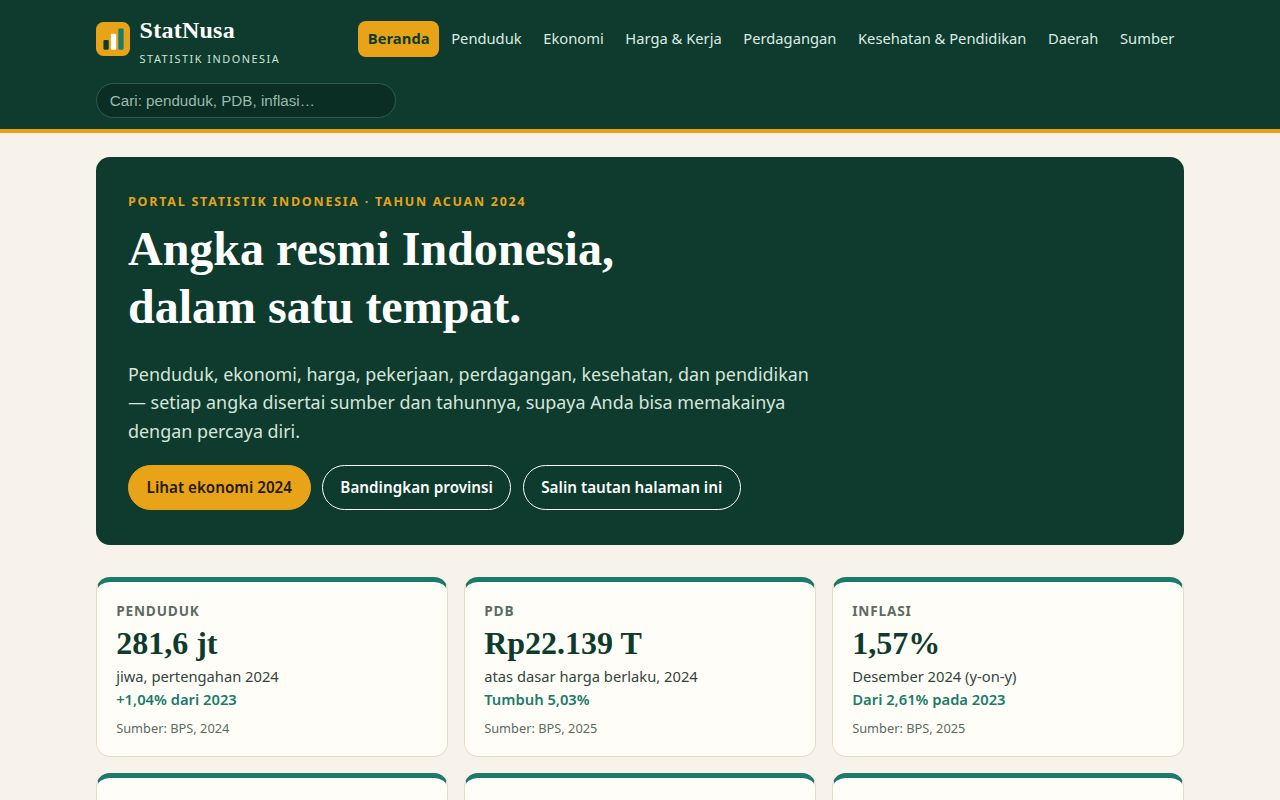
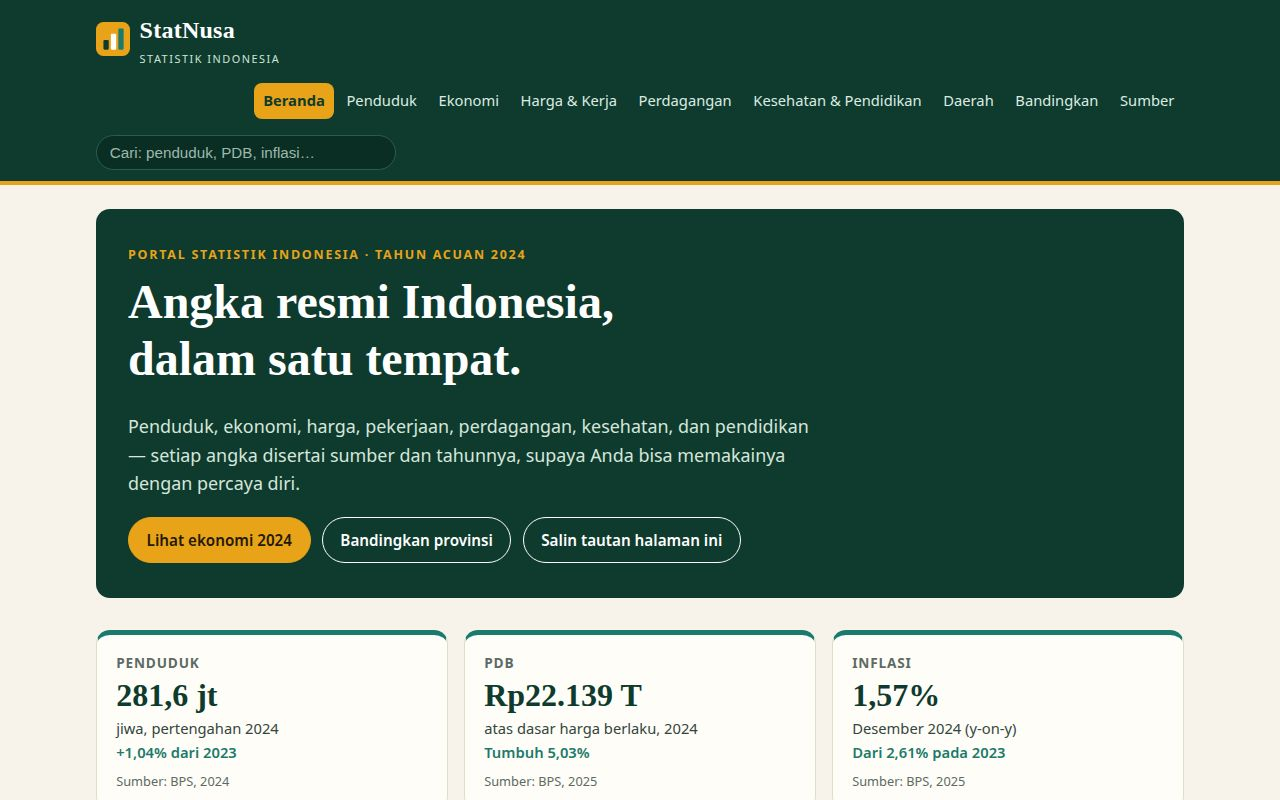
GAHAR: +halaman Bandingkan provinsi, +kalkulator daya beli IHK, format angka id-ID di semua bagan

Changed region(s): [[0.0, 0.0, 1.0, 1.0]]

diff --git a/app/views.js b/app/views.js
@@ -5,10 +5,15 @@
 import { barChart, lineChart, donutChart, hbarChart, legend } from "./charts.js";
 import {
   HEADLINE, POPULATION_YEAR, AGE_GROUPS, ISLAND_SHARE, PROVINCES,
-  GDP_YEAR, GDP_SECTORS, INFLATION_YEAR, TPT_YEAR, POVERTY_YEAR,
+  GDP_YEAR, GDP_SECTORS, INFLATION_YEAR, CPI_SERIES, TPT_YEAR, POVERTY_YEAR,
   TRADE_YEAR, EXPORT_DESTINATIONS, TOP_EXPORTS, HDI_YEAR, FACTS,
   EDUCATION, SOURCES, UPDATES,
 } from "./data.js";
+
+// Format angka Indonesia: 281,6 — bukan 281.6.
+function idNum(v, decimals = 1) {
+  return v.toLocaleString("id-ID", { minimumFractionDigits: decimals, maximumFractionDigits: decimals });
+}
 
 function src(text) {
   return `<p class="source">Sumber: ${text}</p>`;
@@ -77,7 +82,7 @@ export function renderHome(state) {
   <section>
     ${sectionHead("Penduduk terus bertambah, perlahan", "Pertumbuhan penduduk melambat dari 1,3% menjadi sekitar 1,0% per tahun, tetapi jumlahnya tetap naik hampir 3 juta jiwa setiap tahun.")}
     <div class="chart-card">
-      ${barChart(POPULATION_YEAR.map((p) => ({ label: String(p.year), value: p.value })), { format: (v) => `${v} jt` })}
+      ${barChart(POPULATION_YEAR.map((p) => ({ label: String(p.year), value: p.value })), { format: (v) => `${idNum(v)} jt` })}
       ${src("BPS, 2024 — jumlah penduduk pertengahan tahun (juta jiwa)")}
     </div>
   </section>
@@ -96,8 +101,8 @@ export function renderHome(state) {
 export function renderPopulation(state) {
   const kind = state.popKind || "bar";
   const chart = kind === "line"
-    ? lineChart(POPULATION_YEAR.map((p) => ({ label: String(p.year), value: p.value })), { format: (v) => `${v} jt` })
-    : barChart(POPULATION_YEAR.map((p) => ({ label: String(p.year), value: p.value })), { format: (v) => `${v} jt` });
+    ? lineChart(POPULATION_YEAR.map((p) => ({ label: String(p.year), value: p.value })), { format: (v) => `${idNum(v)} jt` })
+    : barChart(POPULATION_YEAR.map((p) => ({ label: String(p.year), value: p.value })), { format: (v) => `${idNum(v)} jt` });
   return `
   <section class="page-head"><p class="eyebrow">Penduduk</p><h1>281,6 juta jiwa, dan terus bertambah</h1>
   <p class="lede">Indonesia adalah negara berpenduduk terbesar keempat di dunia. Pertumbuhannya melambat, tetapi setiap tahun bertambah sekitar 3 juta jiwa — setara satu kota besar baru.</p></section>
@@ -109,7 +114,7 @@ export function renderPopulation(state) {
     ${sectionHead("Siapa penduduk Indonesia?", "Hampir tujuh dari sepuluh penduduk berada pada usia produktif — peluang besar, sekaligus pekerjaan rumah untuk lapangan kerja.")}
     <div class="duo">
       <div class="chart-card">${donutChart(AGE_GROUPS.map((g) => ({ label: g.group, value: g.share })), { centerTop: "68,9%", centerBottom: "usia produktif" })}${legend(AGE_GROUPS.map((g) => ({ label: `${g.group} (${g.note})`, value: g.share })))}</div>
-      <div class="chart-card"><h3>Sebaran menurut pulau</h3>${hbarChart(ISLAND_SHARE.map((s) => ({ label: s.island, value: s.share })), { format: (v) => `${v}%`, labelWidth: 170 })}${src("BPS, 2024 — persen penduduk")}</div>
+      <div class="chart-card"><h3>Sebaran menurut pulau</h3>${hbarChart(ISLAND_SHARE.map((s) => ({ label: s.island, value: s.share })), { format: (v) => `${idNum(v)}%`, labelWidth: 170 })}${src("BPS, 2024 — persen penduduk")}</div>
     </div>
   </section>
   <section>
@@ -122,7 +127,7 @@ export function renderPopulation(state) {
 export function provinceRows(list) {
   return list.map((p) => {
     const density = Math.round((p.pop * 1000000) / p.area);
-    return `<tr><td>${p.name}</td><td>${p.island}</td><td class="num">${p.pop.toFixed(2)}</td><td class="num">${density.toLocaleString("id-ID")}</td><td class="num">${p.tpt.toFixed(2)}%</td></tr>`;
+    return `<tr><td>${p.name}</td><td>${p.island}</td><td class="num">${idNum(p.pop, 2)}</td><td class="num">${density.toLocaleString("id-ID")}</td><td class="num">${idNum(p.tpt, 2)}%</td></tr>`;
   }).join("");
 }
 
@@ -156,7 +161,7 @@ export function renderEconomy(state) {
   const year = state.gdpYear || 2024;
   const row = GDP_YEAR.find((g) => g.year === year);
   const chart = kind === "line"
-    ? lineChart(GDP_YEAR.map((g) => ({ label: String(g.year), value: g.growth })), { format: (v) => `${v}%` })
+    ? lineChart(GDP_YEAR.map((g) => ({ label: String(g.year), value: g.growth })), { format: (v) => `${idNum(v, 2)}%` })
     : barChart(GDP_YEAR.map((g) => ({ label: String(g.year), value: g.nominal })), { format: (v) => `Rp${v.toLocaleString("id-ID")} T` });
   return `
   <section class="page-head"><p class="eyebrow">Ekonomi</p><h1>PDB Rp22.139 triliun, tumbuh 5,03%</h1>
@@ -170,7 +175,7 @@ export function renderEconomy(state) {
     ${yearButtons(GDP_YEAR.map((g) => g.year), year, "gdpYear")}
     <div class="duo">
       <article class="card stat"><span class="stat-label">PDB ${row.year}</span><span class="stat-value">Rp${row.nominal.toLocaleString("id-ID")} triliun</span><span class="stat-note">Atas dasar harga berlaku</span></article>
-      <article class="card stat"><span class="stat-label">Pertumbuhan ${row.year}</span><span class="stat-value">${row.growth}%</span><span class="stat-note">Dibanding tahun sebelumnya (c-to-c)</span></article>
+      <article class="card stat"><span class="stat-label">Pertumbuhan ${row.year}</span><span class="stat-value">${idNum(row.growth, 2)}%</span><span class="stat-note">Dibanding tahun sebelumnya (c-to-c)</span></article>
     </div>
     ${src("BPS, 2025")}
   </section>
@@ -191,10 +196,10 @@ export function renderEconomy(state) {
 export function renderPrices(state) {
   const kind = state.priceKind || "inflasi";
   const chart = kind === "inflasi"
-    ? lineChart(INFLATION_YEAR.map((p) => ({ label: String(p.year), value: p.value })), { format: (v) => `${v}%` })
+    ? lineChart(INFLATION_YEAR.map((p) => ({ label: String(p.year), value: p.value })), { format: (v) => `${idNum(v, 2)}%` })
     : kind === "tpt"
-      ? lineChart(TPT_YEAR.map((p) => ({ label: String(p.year), value: p.value })), { format: (v) => `${v}%` })
-      : lineChart(POVERTY_YEAR.map((p) => ({ label: String(p.year), value: p.value })), { format: (v) => `${v}%` });
+      ? lineChart(TPT_YEAR.map((p) => ({ label: String(p.year), value: p.value })), { format: (v) => `${idNum(v, 2)}%` })
+      : lineChart(POVERTY_YEAR.map((p) => ({ label: String(p.year), value: p.value })), { format: (v) => `${idNum(v, 2)}%` });
   const titles = { inflasi: "Inflasi tahunan 2020–2024", tpt: "Pengangguran terbuka (Agustus) 2020–2024", miskin: "Penduduk miskin (September) 2020–2024" };
   const notes = {
     inflasi: "Inflasi 2022 melonjak ke 5,51% setelah penyesuaian harga BBM, lalu kembali ke 1,57% pada 2024 — terendah dalam lima tahun.",
@@ -217,6 +222,20 @@ export function renderPrices(state) {
       <article class="card"><h3>Garis kemiskinan</h3><p>Rp595.242 per kapita per bulan pada September 2024; 74,50% di antaranya untuk kebutuhan makanan. Rumah tangga miskin rata-rata beranggotakan 4,71 orang.</p>${src("BPS, 2024")}</article>
       <article class="card"><h3>Perkotaan dan perdesaan</h3><p>Kemiskinan perkotaan 6,66%, perdesaan 11,34% (September 2024). Pengangguran perkotaan 5,79%, perdesaan 3,67%.</p>${src("BPS, 2024")}</article>
     </div>
+  </section>
+  <section>
+    ${sectionHead("Kalkulator daya beli", "Berapa nilai uang tahun lalu dalam rupiah hari ini? Kalkulator ini menyesuaikan dengan inflasi (IHK) BPS.")}
+    <div class="card calc-box">
+      <div class="calc-row">
+        <label>Jumlah (Rp)<input type="number" id="calc-amount" value="1000000" min="0" step="1000" inputmode="numeric"></label>
+        <label>Dari tahun
+          <select id="calc-year">${CPI_SERIES.map((c) => `<option value="${c.year}"${c.year === 2020 ? " selected" : ""}>${c.year}</option>`).join("")}</select>
+        </label>
+        <button type="button" class="btn primary" id="calc-run">Hitung nilainya di 2024</button>
+      </div>
+      <p class="calc-result" id="calc-result" aria-live="polite">Rp1.000.000 pada 2020 setara dengan Rp1.120.200 pada 2024.</p>
+      ${src("BPS — IHK 2020 = 100; 2021: 101,87; 2022: 107,49; 2023: 110,29; 2024: 112,02")}
+    </div>
   </section>`;
 }
 
@@ -224,8 +243,8 @@ export function renderPrices(state) {
 export function renderTrade(state) {
   const kind = state.tradeKind || "ekspor";
   const chart = kind === "ekspor"
-    ? barChart(TRADE_YEAR.map((t) => ({ label: String(t.year), value: t.exports })), { format: (v) => `US$${v} M` })
-    : barChart(TRADE_YEAR.map((t) => ({ label: String(t.year), value: t.surplus })), { format: (v) => `US$${v} M` });
+    ? barChart(TRADE_YEAR.map((t) => ({ label: String(t.year), value: t.exports })), { format: (v) => `US$${idNum(v, 2)} M` })
+    : barChart(TRADE_YEAR.map((t) => ({ label: String(t.year), value: t.surplus })), { format: (v) => `US$${idNum(v, 2)} M` });
   return `
   <section class="page-head"><p class="eyebrow">Perdagangan</p><h1>Surplus US$31,04 miliar pada 2024</h1>
   <p class="lede">Indonesia surplus dagang lima tahun berturut-turut. Ekspor naik 2,29% menjadi US$264,70 miliar; impor naik 5,31% menjadi US$233,66 miliar.</p></section>
@@ -236,15 +255,15 @@ export function renderTrade(state) {
   <section>
     ${sectionHead("Ke mana barang Indonesia pergi?", "Tiongkok menyerap hampir seperempat ekspor. Tiga negara tujuan utama — Tiongkok, Amerika Serikat, Jepang — menyumbang 44,2% ekspor nonmigas pada Desember 2024.")}
     <div class="duo">
-      <div class="chart-card"><h3>Negara tujuan ekspor utama (US$ miliar)</h3>${hbarChart(EXPORT_DESTINATIONS.map((d) => ({ label: d.country, value: d.value })), { format: (v) => `US$${v} M`, labelWidth: 130 })}${src("BPS, 2024")}</div>
-      <div class="chart-card"><h3>Komoditas ekspor terbesar (US$ miliar)</h3><ol class="rank-list">${TOP_EXPORTS.map((t, i) => `<li><span>${i + 1}. ${t.good}</span><strong>US$${t.value} M</strong></li>`).join("")}</ol>${src("BPS, Januari–November 2024")}</div>
+      <div class="chart-card"><h3>Negara tujuan ekspor utama (US$ miliar)</h3>${hbarChart(EXPORT_DESTINATIONS.map((d) => ({ label: d.country, value: d.value })), { format: (v) => `US$${idNum(v, 2)} M`, labelWidth: 130 })}${src("BPS, 2024")}</div>
+      <div class="chart-card"><h3>Komoditas ekspor terbesar (US$ miliar)</h3><ol class="rank-list">${TOP_EXPORTS.map((t, i) => `<li><span>${i + 1}. ${t.good}</span><strong>US$${idNum(t.value)} M</strong></li>`).join("")}</ol>${src("BPS, Januari–November 2024")}</div>
     </div>
   </section>
   <section>
     ${sectionHead("Neraca per tahun", "Surplus menyusut dari puncaknya pada 2022 karena impor tumbuh lebih cepat dari ekspor.")}
     <div class="table-wrap"><table class="data-table"><caption>Perdagangan luar negeri (US$ miliar)</caption>
     <thead><tr><th scope="col">Tahun</th><th scope="col" class="num">Ekspor</th><th scope="col" class="num">Impor</th><th scope="col" class="num">Surplus</th></tr></thead>
-    <tbody>${TRADE_YEAR.map((t) => `<tr><td>${t.year}</td><td class="num">${t.exports.toFixed(2)}</td><td class="num">${t.imports.toFixed(2)}</td><td class="num">${t.surplus.toFixed(2)}</td></tr>`).join("")}</tbody></table></div>
+    <tbody>${TRADE_YEAR.map((t) => `<tr><td>${t.year}</td><td class="num">${idNum(t.exports, 2)}</td><td class="num">${idNum(t.imports, 2)}</td><td class="num">${idNum(t.surplus, 2)}</td></tr>`).join("")}</tbody></table></div>
     ${src("BPS / Kementerian Keuangan, 2024")}
   </section>`;
 }
@@ -260,7 +279,7 @@ export function renderHealth(state) {
   </section>
   <section>
     ${sectionHead("Sekolah: hampir semua anak bersekolah", "Angka partisipasi sekolah (APS) menurut jenjang, 2024.")}
-    <div class="chart-card">${hbarChart(EDUCATION.map((e) => ({ label: e.level, value: e.aps })), { format: (v) => `${v}%`, labelWidth: 210 })}${src("BPS, 2024")}</div>
+    <div class="chart-card">${hbarChart(EDUCATION.map((e) => ({ label: e.level, value: e.aps })), { format: (v) => `${idNum(v)}%`, labelWidth: 210 })}${src("BPS, 2024")}</div>
   </section>
   <section>
     ${sectionHead("Kesehatan dalam angka", "Empat angka yang paling sering dicari.")}
@@ -280,7 +299,7 @@ export function renderRegions(state) {
   <p class="lede">Jawa Barat adalah provinsi berpenduduk terbesar (50,35 juta jiwa); DKI Jakarta yang terpadat (lebih dari 16.000 jiwa per km²). Bandingkan provinsi-provinsi terbesar di bawah ini.</p></section>
   <section>
     ${sectionHead("Penduduk 12 provinsi terbesar", "Dalam juta jiwa, 2024.")}
-    <div class="chart-card">${hbarChart(PROVINCES.map((p) => ({ label: p.name, value: p.pop })), { format: (v) => `${v} jt`, labelWidth: 170 })}${src("BPS, 2024")}</div>
+    <div class="chart-card">${hbarChart(PROVINCES.map((p) => ({ label: p.name, value: p.pop })), { format: (v) => `${idNum(v, 2)} jt`, labelWidth: 170 })}${src("BPS, 2024")}</div>
   </section>
   <section>
     ${sectionHead("Tabel provinsi", "Cari, urutkan, dan unduh. Tabel memuat 12 provinsi berpenduduk terbesar.")}
@@ -291,6 +310,49 @@ export function renderRegions(state) {
     <h2>Mengapa Jawa begitu padat?</h2>
     <p>Lebih dari separuh penduduk Indonesia tinggal di Jawa — 55,9% dari total — di atas kurang dari 7% luas daratan. Kepadatan Jawa Barat sekitar 1.354 jiwa per km², sementara Kalimantan Barat hanya 40 jiwa per km². Ketimpangan inilah yang membuat pemerataan pembangunan menjadi tema utama statistik daerah.</p>
     ${src("BPS, 2024 — dihitung dari data penduduk dan luas wilayah")}
+  </section>`;
+}
+
+// ---------- Bandingkan ----------
+export function renderCompare(state) {
+  const aName = state.compareA || "Jawa Barat";
+  const bName = state.compareB || "DKI Jakarta";
+  const a = PROVINCES.find((p) => p.name === aName) || PROVINCES[0];
+  const b = PROVINCES.find((p) => p.name === bName) || PROVINCES[5];
+  const dens = (p) => Math.round((p.pop * 1000000) / p.area);
+  const ratio = (a.pop / b.pop).toFixed(1).replace(".", ",");
+  const densRatio = Math.round(dens(b) / dens(a));
+  const options = (current) => PROVINCES.map((p) => `<option value="${p.name}"${p.name === current ? " selected" : ""}>${p.name}</option>`).join("");
+  const row = (label, va, vb, note) => `<tr><th scope="row">${label}</th><td class="num">${va}</td><td class="num">${vb}</td><td class="muted">${note}</td></tr>`;
+  return `
+  <section class="page-head"><p class="eyebrow">Bandingkan</p><h1>${a.name} lawan ${b.name}</h1>
+  <p class="lede">Pilih dua provinsi dan bandingkan langsung: penduduk, kepadatan, dan pengangguran. Semua angka tahun 2024.</p></section>
+  <section>
+    <div class="card compare-pick">
+      <label>Provinsi pertama
+        <select id="compare-a">${options(a.name)}</select>
+      </label>
+      <span class="vs" aria-hidden="true">lawan</span>
+      <label>Provinsi kedua
+        <select id="compare-b">${options(b.name)}</select>
+      </label>
+    </div>
+  </section>
+  <section>
+    <div class="table-wrap"><table class="data-table"><caption>Perbandingan ${a.name} dan ${b.name}, 2024</caption>
+    <thead><tr><th scope="col">Ukuran</th><th scope="col" class="num">${a.name}</th><th scope="col" class="num">${b.name}</th><th scope="col">Catatan</th></tr></thead>
+    <tbody>
+      ${row("Penduduk (juta jiwa)", idNum(a.pop, 2), idNum(b.pop, 2), `${a.name} berpenduduk ${ratio} kali ${b.name}`)}
+      ${row("Kepadatan (jiwa/km²)", dens(a).toLocaleString("id-ID"), dens(b).toLocaleString("id-ID"), `${b.name} ${densRatio} kali lebih padat`)}
+      ${row("Luas wilayah (km²)", a.area.toLocaleString("id-ID"), b.area.toLocaleString("id-ID"), "Luas daratan menurut BPS")}
+      ${row("Pengangguran / TPT (%)", idNum(a.tpt, 2) + "%", idNum(b.tpt, 2) + "%", "Agustus 2024 — lebih rendah lebih baik")}
+      ${row("Pulau", a.island, b.island, "")}
+    </tbody></table></div>
+    ${src("BPS, 2024 — penduduk pertengahan tahun; luas wilayah BPS; TPT BPS Sakernas Agustus 2024")}
+  </section>
+  <section>
+    ${sectionHead("Penduduk kedua provinsi", "Dalam juta jiwa.")}
+    <div class="chart-card">${hbarChart([{ label: a.name, value: a.pop }, { label: b.name, value: b.pop }], { format: (v) => `${idNum(v, 2)} jt`, labelWidth: 170 })}${src("BPS, 2024")}</div>
   </section>`;
 }
 

diff --git a/app/main.js b/app/main.js
@@ -2,10 +2,10 @@
 // Satu pekerjaan: merutekan halaman dan menghidupkan semua kontrol.
 // Data tinggal di data.js, bagan di charts.js, halaman di views.js.
 
-import { SEARCH_INDEX, PROVINCES } from "./data.js";
+import { SEARCH_INDEX, PROVINCES, CPI_SERIES } from "./data.js";
 import {
   renderHome, renderPopulation, renderEconomy, renderPrices,
-  renderTrade, renderHealth, renderRegions, renderSources,
+  renderTrade, renderHealth, renderRegions, renderCompare, renderSources,
 } from "./views.js";
 
 const view = document.getElementById("view");
@@ -24,6 +24,8 @@ const state = {
   provFilter: "",
   sortKey: "pop",
   sortDir: -1,
+  compareA: "Jawa Barat",
+  compareB: "DKI Jakarta",
 };
 
 const ROUTES = {
@@ -34,6 +36,7 @@ const ROUTES = {
   "/perdagangan": { render: () => renderTrade(state), title: "Perdagangan" },
   "/kesehatan-pendidikan": { render: () => renderHealth(state), title: "Kesehatan & Pendidikan" },
   "/daerah": { render: () => renderRegions(state), title: "Daerah" },
+  "/bandingkan": { render: () => renderCompare(state), title: "Bandingkan Provinsi" },
   "/sumber": { render: () => renderSources(state), title: "Sumber Data" },
 };
 
@@ -79,6 +82,30 @@ function wireView() {
   if (csv) csv.addEventListener("click", downloadProvinceCsv);
   const copy = view.querySelector("#copy-link");
   if (copy) copy.addEventListener("click", () => copyText(location.href, copy));
+  const selA = view.querySelector("#compare-a");
+  const selB = view.querySelector("#compare-b");
+  if (selA) selA.addEventListener("change", () => { state.compareA = selA.value; render(); });
+  if (selB) selB.addEventListener("change", () => { state.compareB = selB.value; render(); });
+  const calcRun = view.querySelector("#calc-run");
+  if (calcRun) calcRun.addEventListener("click", runCalculator);
+  const calcAmount = view.querySelector("#calc-amount");
+  const calcYear = view.querySelector("#calc-year");
+  if (calcAmount) calcAmount.addEventListener("input", runCalculator);
+  if (calcYear) calcYear.addEventListener("change", runCalculator);
+}
+
+// Kalkulator daya beli: nilai tahun lama dalam rupiah 2024 memakai IHK BPS.
+function runCalculator() {
+  const amount = Number(view.querySelector("#calc-amount")?.value || 0);
+  const year = Number(view.querySelector("#calc-year")?.value || 2020);
+  const result = view.querySelector("#calc-result");
+  if (!result) return;
+  if (!amount || amount <= 0) { result.textContent = "Masukkan jumlah rupiah lebih dari 0."; return; }
+  const from = CPI_SERIES.find((c) => c.year === year) || CPI_SERIES[0];
+  const to = CPI_SERIES.find((c) => c.year === 2024);
+  const value = Math.round((amount * to.index) / from.index);
+  const fmt = (n) => "Rp" + n.toLocaleString("id-ID");
+  result.textContent = `${fmt(amount)} pada ${year} setara dengan ${fmt(value)} pada 2024.`;
 }
 
 // Setelah render ulang karena mengetik filter, kembalikan fokus ke kotaknya.

diff --git a/app/charts.js b/app/charts.js
@@ -8,6 +8,11 @@ function esc(value) {
   return String(value).replace(/&/g, "&amp;").replace(/</g, "&lt;").replace(/>/g, "&gt;");
 }
 
+// Angka tampil dengan koma desimal Indonesia (18,98 — bukan 18.98).
+function num(value) {
+  return typeof value === "number" ? value.toLocaleString("id-ID") : String(value);
+}
+
 function niceMax(max) {
   const step = Math.pow(10, Math.floor(Math.log10(max)));
   const norm = max / step;
@@ -101,7 +106,7 @@ export function donutChart(slices, options = {}) {
     const xi0 = cx + inner * Math.cos(a0);
     const yi0 = cy + inner * Math.sin(a0);
     const color = PALETTE[i % PALETTE.length];
-    svg += `<path d="M${x0.toFixed(1)},${y0.toFixed(1)} A${r},${r} 0 ${large} 1 ${x1.toFixed(1)},${y1.toFixed(1)} L${xi1.toFixed(1)},${yi1.toFixed(1)} A${inner},${inner} 0 ${large} 0 ${xi0.toFixed(1)},${yi0.toFixed(1)} Z" fill="${color}"><title>${esc(p.label)}: ${esc(String(p.value))}%</title></path>`;
+    svg += `<path d="M${x0.toFixed(1)},${y0.toFixed(1)} A${r},${r} 0 ${large} 1 ${x1.toFixed(1)},${y1.toFixed(1)} L${xi1.toFixed(1)},${yi1.toFixed(1)} A${inner},${inner} 0 ${large} 0 ${xi0.toFixed(1)},${yi0.toFixed(1)} Z" fill="${color}"><title>${esc(p.label)}: ${esc(num(p.value))}%</title></path>`;
   });
   svg += `<text x="${cx}" y="${cy - 2}" class="donut-center" text-anchor="middle">${esc(options.centerTop || "")}</text>`;
   svg += `<text x="${cx}" y="${cy + 18}" class="donut-sub" text-anchor="middle">${esc(options.centerBottom || "")}</text></svg>`;
@@ -132,5 +137,5 @@ export function hbarChart(rows, options = {}) {
 
 // Legenda kecil untuk donat dan batang.
 export function legend(items) {
-  return `<ul class="legend">${items.map((p, i) => `<li><span class="swatch" style="background:${PALETTE[i % PALETTE.length]}"></span>${esc(p.label)} — <strong>${esc(String(p.value))}%</strong></li>`).join("")}</ul>`;
+  return `<ul class="legend">${items.map((p, i) => `<li><span class="swatch" style="background:${PALETTE[i % PALETTE.length]}"></span>${esc(p.label)} — <strong>${esc(num(p.value))}%</strong></li>`).join("")}</ul>`;
 }

diff --git a/app/data.js b/app/data.js
@@ -85,6 +85,16 @@ export const INFLATION_YEAR = [
   { year: 2024, value: 1.57 },
 ];
 
+// Indeks Harga Konsumen (2020 = 100), dihitung berantai dari inflasi tahunan BPS:
+// 2021 = 100 × 1,0187; 2022 = × 1,0551; 2023 = × 1,0261; 2024 = × 1,0157.
+export const CPI_SERIES = [
+  { year: 2020, index: 100.0 },
+  { year: 2021, index: 101.87 },
+  { year: 2022, index: 107.49 },
+  { year: 2023, index: 110.29 },
+  { year: 2024, index: 112.02 },
+];
+
 export const TPT_YEAR = [
   { year: 2020, value: 7.07 },
   { year: 2021, value: 6.49 },
@@ -176,6 +186,8 @@ export const SEARCH_INDEX = [
   { term: "ipm pembangunan manusia", title: "IPM 75,02 — kategori tinggi", route: "#/kesehatan-pendidikan", hint: "BPS, 2024" },
   { term: "ekspor impor perdagangan", title: "Ekspor US$264,70 miliar, surplus US$31,04 miliar", route: "#/perdagangan", hint: "BPS / Kemenkeu, 2024" },
   { term: "provinsi daerah jawa barat jakarta", title: "Perbandingan 12 provinsi terbesar", route: "#/daerah", hint: "BPS, 2024" },
+  { term: "bandingkan provinsi lawan", title: "Bandingkan dua provinsi", route: "#/bandingkan", hint: "BPS, 2024" },
+  { term: "kalkulator daya beli inflasi rupiah", title: "Kalkulator daya beli (IHK)", route: "#/harga-kerja", hint: "BPS, 2024" },
   { term: "sekolah pendidikan aps", title: "Angka partisipasi sekolah dan lama sekolah", route: "#/kesehatan-pendidikan", hint: "BPS, 2024" },
   { term: "harapan hidup kesehatan stunting", title: "Harapan hidup 74,15 tahun, stunting 19,8%", route: "#/kesehatan-pendidikan", hint: "BPS / Kemenkes, 2024" },
   { term: "upah ump jakarta", title: "UMP DKI Jakarta 2025 Rp5.396.761", route: "#/harga-kerja", hint: "Pemprov DKI Jakarta, 2025" },

diff --git a/app/style.css b/app/style.css
@@ -393,6 +393,47 @@ section { margin-bottom: 2.4rem; }
   padding: 1.3rem 1.4rem;
 }
 
+/* ---------- Kalkulator & bandingkan ---------- */
+.calc-row {
+  display: flex;
+  gap: 0.9rem;
+  align-items: end;
+  flex-wrap: wrap;
+}
+
+.calc-row label { font-weight: 600; font-size: 0.95rem; }
+
+.calc-row input, .calc-row select, .compare-pick select {
+  display: block;
+  margin-top: 0.3rem;
+  padding: 0.55rem 0.7rem;
+  border: 1px solid var(--line);
+  border-radius: 8px;
+  font: inherit;
+  font-size: 0.95rem;
+  background: var(--card);
+}
+
+.calc-row input { width: 200px; }
+
+.calc-result {
+  margin-top: 1rem;
+  font-family: Georgia, serif;
+  font-size: 1.25rem;
+  font-weight: 700;
+  color: var(--pine);
+}
+
+.compare-pick {
+  display: flex;
+  gap: 1rem;
+  align-items: end;
+  flex-wrap: wrap;
+}
+
+.compare-pick label { font-weight: 600; font-size: 0.95rem; }
+.compare-pick .vs { font-family: Georgia, serif; font-style: italic; color: var(--terra); padding-bottom: 0.6rem; }
+
 /* ---------- Footer ---------- */
 .site-footer {
   background: var(--pine);

diff --git a/app/index.html b/app/index.html
@@ -23,6 +23,7 @@
       <a class="nav-link" href="#/perdagangan">Perdagangan</a>
       <a class="nav-link" href="#/kesehatan-pendidikan">Kesehatan &amp; Pendidikan</a>
       <a class="nav-link" href="#/daerah">Daerah</a>
+      <a class="nav-link" href="#/bandingkan">Bandingkan</a>
       <a class="nav-link" href="#/sumber">Sumber</a>
     </nav>
     <div class="search-box">
@@ -58,6 +59,7 @@
       <ul>
         <li><a href="#/kesehatan-pendidikan">Kesehatan &amp; Pendidikan</a></li>
         <li><a href="#/daerah">Daerah</a></li>
+        <li><a href="#/bandingkan">Bandingkan Provinsi</a></li>
         <li><a href="#/sumber">Sumber Data</a></li>
       </ul>
     </div>
